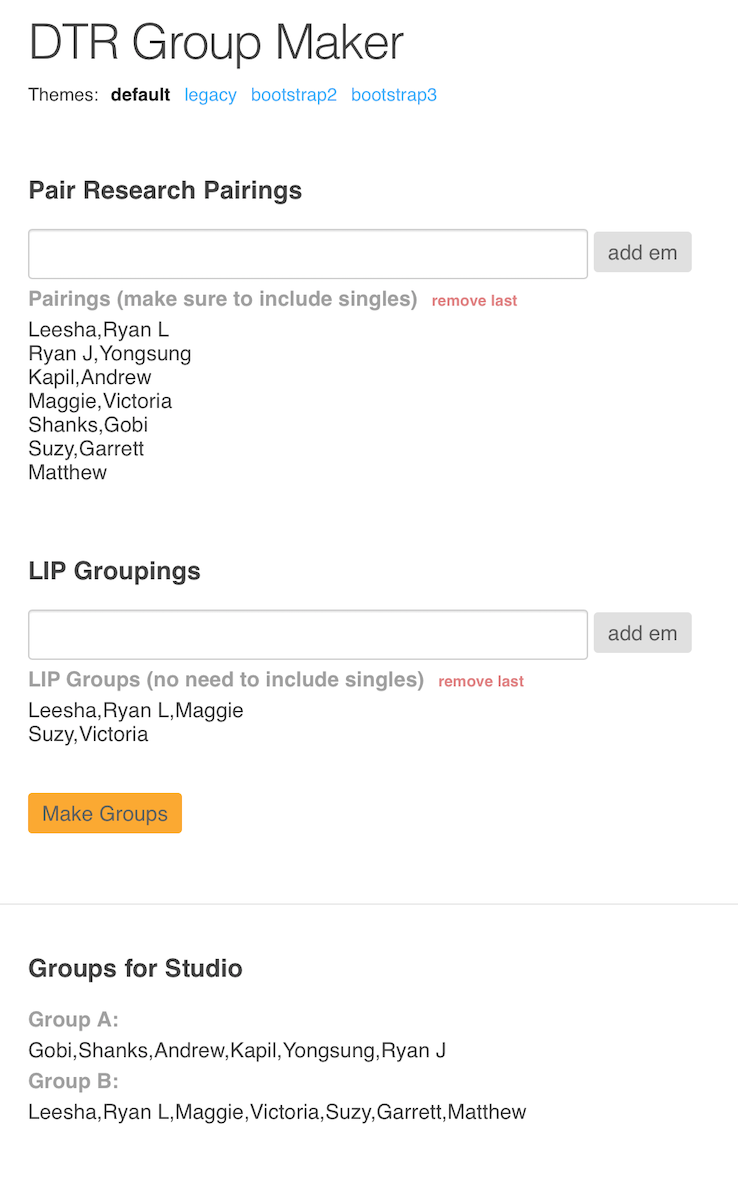
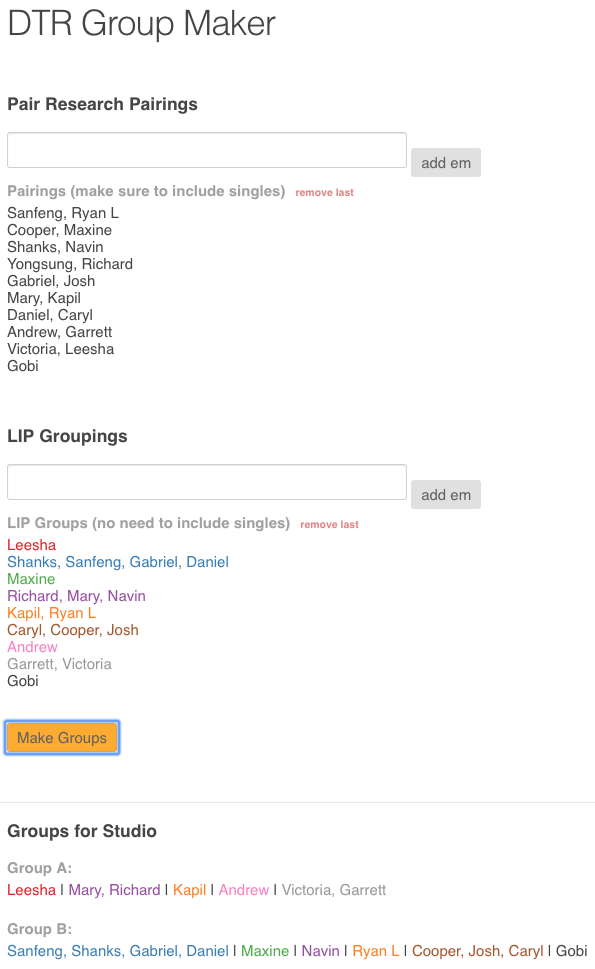
adding color chunking by LIP group. closes #1

diff --git a/js/hq.js b/js/hq.js
@@ -10,11 +10,17 @@ $(function() {
         }
     });
 
+    // helper function for string replace all
+    function replaceAll(str, find, replace) {
+        return str.replace(new RegExp(find, 'g'), replace);
+    }
+
     /*
       Populating DTR students for the quarter.
       Updated last: S2019
      */
-    var peopleList = ['Leesha',
+    var peopleList = [
+        'Leesha',
         'Ryan L',
         'Yongsung',
         'Kapil',
@@ -68,7 +74,12 @@ $(function() {
 
         // check if not blank
         if (currPairTags !== '') {
-            $('#pairResults').append(currPairTags + "<br/>");
+            // add to pairResults div
+            $('#pairResults').append($('<span />')
+                           .text(replaceAll(currPairTags, ',', ', ')));
+            $('#pairResults').append('<br/>');
+
+            // store information for partitioning later on
             pairList.push(currPairTags);
             $("#pair-tags")[0].selectize.clear();
         }
@@ -76,10 +87,16 @@ $(function() {
 
     // undo last add to pairing list
     $('#undoPair').on("click", function(e) {
+      // remove from paritioning data
         pairList.pop();
+
+        // remove from UI
         $('#pairResults').text("")
-        for (var i = 0; i < pairList.length; i++)
-            $('#pairResults').append(pairList[i] + "<br/>");
+        for (var i = 0; i < pairList.length; i++) {
+            $('#pairResults').append($('<span />')
+                           .text(replaceAll(pairList[i], ',', ', ')));
+            $('#pairResults').append('<br/>');
+        }
     });
 
 
@@ -89,7 +106,20 @@ $(function() {
 
         // check if not blank
         if (currLipTags !== '') {
-            $('#lipGroups').append(currLipTags + "<br/>");
+            // add to lipGroups div with correct color
+            var currLipColor = '';
+            if (lipList.length >= colors.length) {
+              currLipColor = defaultColor;
+            } else {
+              currLipColor = colors[lipList.length];
+            }
+
+            $('#lipGroups').append($('<span />')
+                           .css('color', currLipColor)
+                           .text(replaceAll(currLipTags, ',', ', ')));
+            $('#lipGroups').append('<br/>');
+
+            // store information for partitioning later on
             lipList.push(currLipTags);
             $("#lip-tags")[0].selectize.clear();
         }
@@ -97,15 +127,32 @@ $(function() {
 
     // undo last add to lip group list
     $('#undoGroup').on("click", function(e) {
+        // remove from paritioning data
         lipList.pop();
+
+        // remove from UI
         $('#lipGroups').text("")
-        for (var i = 0; i < lipList.length; i++)
-            $('#lipGroups').append(lipList[i] + "<br/>");
+        for (var i = 0; i < lipList.length; i++) {
+          var currLipColor = '';
+            if (i >= colors.length) {
+              currLipColor = defaultColor;
+            } else {
+              currLipColor = colors[i];
+            }
+
+          $('#lipGroups').append($('<span />')
+                           .css('color', currLipColor)
+                           .text(replaceAll(lipList[i], ',', ', ')));
+          $('#lipGroups').append('<br/>');
+        }
     });
 
     var candidateList = [];
     $('#computeGroups').on("click", function(e) {
+        // compute groups
         candidateList = computeGroups(pairList, lipList);
+
+        // get colors for each lip
         var colorIndex = assignColors(lipList)
         if (candidateList.length > 0) {
             displayGroup($("#groupA"), candidateList[0][0], colorIndex)
@@ -140,25 +187,50 @@ $(function() {
 
 
     // Assign a color to each pref and create an index
-    function displayGroup(ele, group, ci) {
+    function displayGroup(ele, group, colorIndex) {
+        // pre-initialize colors dictionar
+        var colorGroups = {};
+        colors.forEach(function(color) {
+          colorGroups[color] = [];
+        });
+        colorGroups[defaultColor] = [];
+
+        // group people by LIP color
+        group.forEach(function(currPerson) {
+          // add person to each color group based on their assigned color
+          if (currPerson in colorIndex) {
+            var currColor = colorIndex[currPerson];
+            colorGroups[currColor].push(currPerson);
+          }
+        });
+
+        // create HTML content
         var content = $('<div />')
-        for (var i = 0; i < group.length - 1; i++) {
-            if (group[i] in ci)
-                content.append($('<span />').css('color', ci[group[i]]).text(group[i] + ", "))
-            else
-                content.append($('<span />').text(group[i] + ", "))
+        var isFirstGroup = true;
+
+        for (var colorKey in colorGroups) {
+          // add each group member with color styling
+          if (colorGroups.hasOwnProperty(colorKey) && colorGroups[colorKey].length > 0) {
+            var currPeople = colorGroups[colorKey];
+            var currPeopleText = currPeople.join(', ');
+
+            // check if | should be added
+            if (!isFirstGroup) {
+              content.append(' | ');
+            } else {
+              isFirstGroup = false;
+            }
+
+            content.append($('<span />').css('color', colorKey).text(currPeopleText));
+          }
         }
-        if (group[group.length - 1] in ci)
-            content.append($('<span />').css('color', ci[group[group.length - 1]]).text(group[group.length - 1]))
-        else
-            content.append($('<span />').text(group[group.length - 1]))
+
+        // add context to html element
         ele.html(content)
     }
 
     // Assign a color to each pref and create an index
-    function assignColors(prefs) {
-        // assumes no more than colors.length number of prefs
-        var colors = [
+    var colors = [
             '#e41a1c',
             '#377eb8',
             '#4daf4a',
@@ -167,19 +239,34 @@ $(function() {
             '#a65628',
             '#f781bf',
             '#999999'
-        ];
+    ];
+    var defaultColor = '#454545';
 
-        var colorIndex = {};
-        colors = colors.slice(0, prefs.length);
+    function assignColors(prefs) {
+        var colorIndexDict = {};
+        var colorIndex = 0;
 
+        // iterate over preferences and assign colors
         for (var i = 0; i < prefs.length; i++) {
+            // get list of people in the group
             var people = prefs[i].split(",");
 
+            // figure out what color to use for the group
+            var groupColor = '';
+            if (colorIndex < colors.length) {
+              groupColor = colors[colorIndex];
+              colorIndex++;
+            } else {
+              groupColor = defaultColor;
+            }
+
+            // set color for each person in group
             for (var j = 0; j < people.length; j++) {
-                colorIndex[people[j]] = colors[i];
+                colorIndexDict[people[j]] = groupColor;
             }
         }
-        return colorIndex;
+
+        return colorIndexDict;
     }
 
     // Form 2 groups that satisfy hard preferences to stay together

diff --git a/hq.html b/hq.html
@@ -61,6 +61,7 @@
             <h2>Group A: </h2>
             <div id="groupA"></div>
          </div>
+         <br>
          <div class="col-sm-6">
             <h2>Group B: </h2>
             <div id="groupB"></div>

diff --git a/README.md b/README.md
@@ -10,7 +10,7 @@ This tool helps us make these two groups by:
 - Preferring all LIP groups, so that students working on the same LIP are put in the same group whenever possible.
 
 The tool does this by computing all near-even partitions and identifies candidate partitions that fully respects pair researching matches and prefers LIP groupings as able.
-  
+
 
 ===
 
@@ -18,4 +18,4 @@ The tool does this by computing all near-even partitions and identifies candidat
 ### Screenshot:
 <img src="/images/screenshot.png?raw=true" width="400px">
 
-###### Note: to fully respect pair research matchings, we must allow for unequal group sizes; for example, if there are 10 students paired, then groups should have 4/6 people instead of 5/5.
+###### Note: to fully respect pair research matchings, we must allow for unequal group sizes; for example, if there are 10 students paired, then groups could have 4/6 people instead of 5/5.
